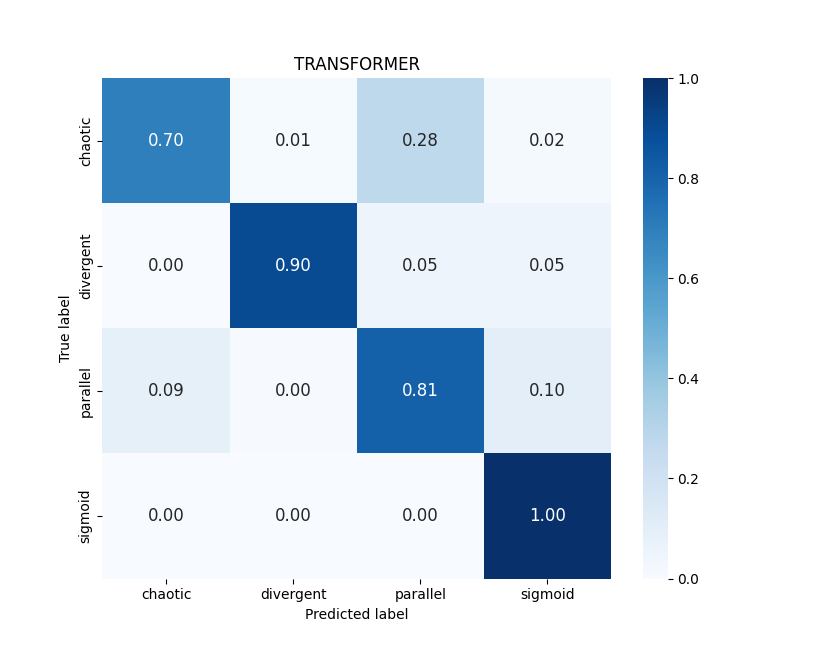
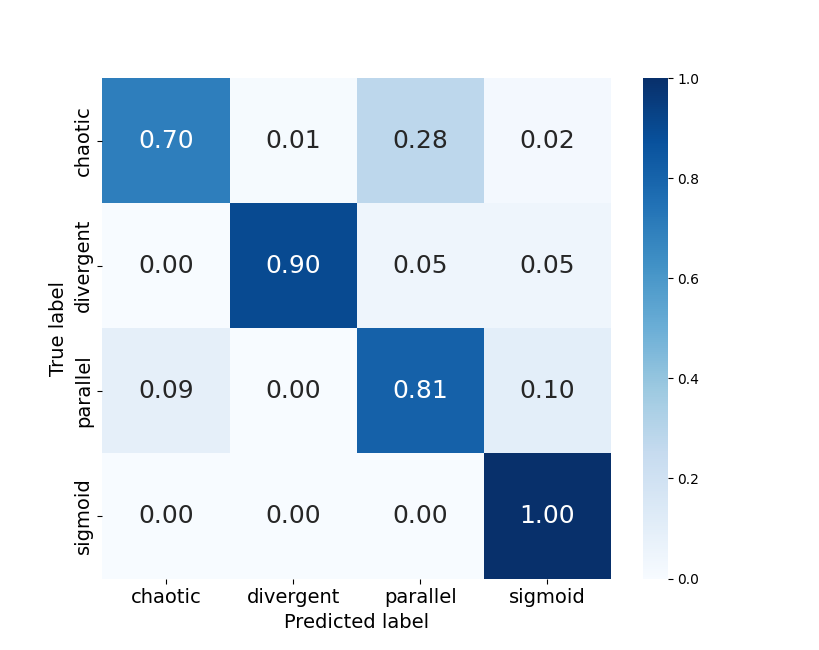
.

diff --git a/test_llama_prefix.py b/test_llama_prefix.py
@@ -90,13 +90,13 @@ def criar_matriz_de_cofusao(resultados):
     ax = sns.heatmap(
         cm, annot=True, xticklabels=classes_possiveis,
         yticklabels=classes_possiveis, cmap="Blues", vmin=0.0, vmax=1.0,
-        fmt=".2f", ax=ax, annot_kws={"size": 12}, 
+        fmt=".2f", ax=ax, annot_kws={"size": 18}, 
     )
-    ax.set_yticklabels(ax.get_yticklabels())
-    ax.set_xticklabels(ax.get_yticklabels())#, rotation=10)
+    ax.set_yticklabels(ax.get_yticklabels(), fontsize=14)
+    ax.set_xticklabels(ax.get_yticklabels(), fontsize=14)#, rotation=10)
     plt.xlabel("Predicted label")
     plt.ylabel("True label")
-    plt.title(MAP_NETWORK.upper())
+    # plt.title(MAP_NETWORK.upper())
 
     save_path = f'prefix_{MAP_NETWORK}_confusion_matrix.png'
     plt.savefig(save_path)
@@ -113,8 +113,8 @@ def avaliar_legendas(legendas_geradas_labels):
         contagens = {}
         correto = False
 
-        # if resultado_avaliado['label'] == 'chaotic-channels':
-        #     continue
+        if resultado_avaliado['label'] == 'chaotic-channels':
+            continue
 
         # quantidade_captions = len(resultado_avaliado['captions'])
 

diff --git a/config.py b/config.py
@@ -44,7 +44,7 @@ import torch
 # N_EMBEDS_BATCH = 1000  # How many files to save each time
 # MAX_SIZE_MEMORY = 5000
 
-MAP_NETWORK = 'transformer'
+MAP_NETWORK = 'mlp'
 LANG_PREFIX_CHECKPOINT =f'checkpoints/prefix_ckpt_parihaka_f3_{MAP_NETWORK}.pth'
 
 CLIP_VISION_MODEL = 'checkpoints/resnet18_parihaka_f3_encoder.pth'
